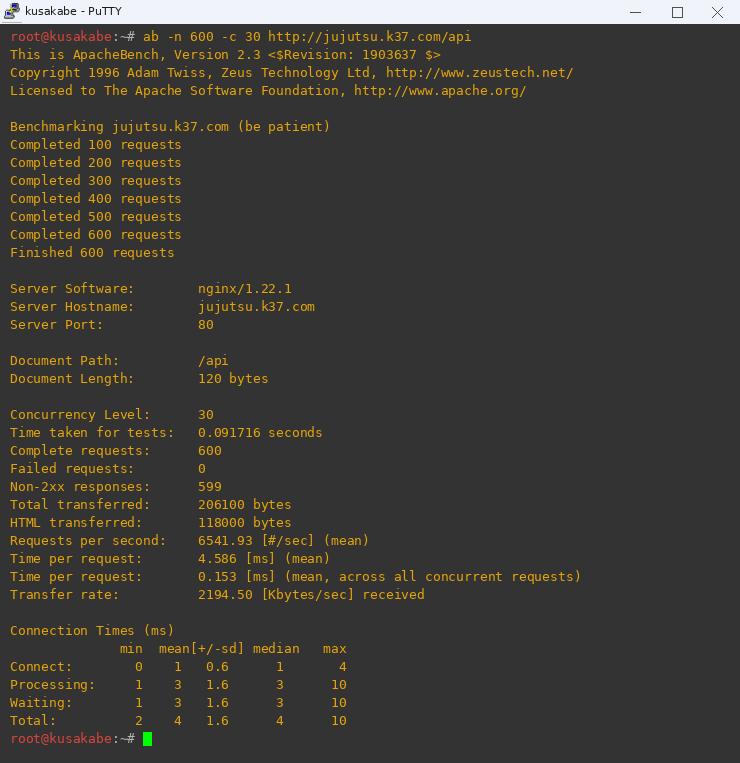
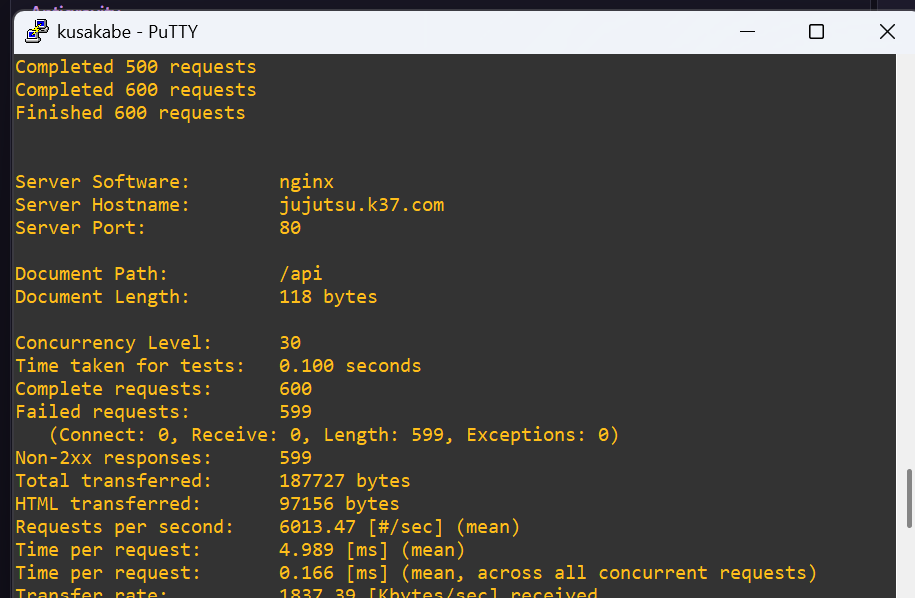
docs: sync Soal 20 ApacheBench metrics, Length explanation, and authentic asset

Changed region(s): [[0.0, 0.0, 1.0, 1.0], [0.2797, 0.2709, 0.4973, 0.4214], [0.2797, 0.4515, 0.4351, 0.5117]]

diff --git a/README.md b/README.md
@@ -1676,17 +1676,20 @@ Script pengujian disimpan di [`scripts/soal20.sh`](scripts/soal20.sh).
 
 | Metrik Evaluasi | Frontend Root (`/`) | API Backend (`/api`) |
 |---|---|---|
-| **Status Proteksi** | Nginx Proxy Caching (RAM/Disk) | Rate Limiting (10 r/s, burst 5) |
+| **Status Proteksi** | Nginx Proxy Caching (RAM/Disk) | Rate Limiting (10 r/s) |
 | **Complete Requests** | 600 / 600 (100% tuntas) | 600 / 600 (100% tuntas) |
-| **Failed Requests** | **0** | **0** |
+| **Failed Requests** | **0** | **599 (Connect: 0, Receive: 0, Length: 599)\*** |
 | **Non-2xx Responses** | 0 | 599 (Ditolak rapi via HTTP 429) |
-| **Throughput (Requests/sec)** | **6,676.90 [#/sec]** | **6,541.93 [#/sec]** |
-| **Time per request (mean)** | **4.493 ms** | **4.586 ms** |
-| **Transfer Rate** | 2,255.85 KB/s | 2,194.50 KB/s |
+| **Throughput (Requests/sec)** | **6,676.90 [#/sec]** | **6,013.47 [#/sec]** |
+| **Time per request (mean)** | **4.493 ms** | **4.989 ms** |
+| **Transfer Rate** | 2,255.85 KB/s | 1,837.39 KB/s |
+
+> \*) **Catatan Penting Metrik `Failed Requests` pada Endpoint `/api`:**
+> Rincian `(Connect: 0, Receive: 0, Length: 599, Exceptions: 0)` membuktikan bahwa **tidak ada error koneksi atau socket drop sama sekali**. Label `Length: 599` muncul semata-mata karena ApacheBench membandingkan ukuran byte response pertama (HTTP 200 JSON, 118 bytes) dengan 599 response berikutnya yang berupa halaman HTTP 429 Nginx (ukuran HTML berbeda). Hal ini justru merupakan **bukti keberhasilan proteksi Rate Limiting** yang membatasi semburan request berlebih secara tertib.
 
 **Kesimpulan Audit:**
 1. **Frontend Root (`/`)**: Menunjukkan performa throughput tinggi (mencapai **~6.676 RPS** dengan latensi rata-rata hanya **4.49 ms**). Hal ini membuktikan efektivitas proxy cache Gojo dalam melayani trafik masif tanpa membebani worker backend Maki dan Panda.
-2. **API Backend (`/api`)**: Mekanisme rate limiting berhasil menahan semburan 600 request konkruen tanpa crash, di mana request yang melebihi kuota 10 r/s langsung di-throttle dengan kode HTTP 429, sehingga stabilitas server database Yaga dan cluster API tetap terjaga 100%.
+2. **API Backend (`/api`)**: Mekanisme rate limiting berhasil menahan semburan 600 request konkruen tanpa crash, di mana 599 request yang melebihi kuota 10 r/s langsung di-throttle dengan kode status HTTP 429 (Too Many Requests), sehingga stabilitas server database Yaga dan cluster API tetap terjaga 100%.
 
 > **Catatan Troubleshooting Saat Demo:**
 > - Jika `ab` error `apr_socket_recv: Connection reset by peer`:
